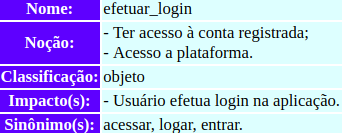
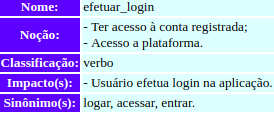
Refatoração e Correção da Página

diff --git a/twitter_docs/modelagem/use_cases_specifications/login.md b/twitter_docs/modelagem/use_cases_specifications/login.md
@@ -2,7 +2,9 @@
 
 ***
 # Caso de Uso - Efetuar Login
-<span style="margin-left: 30%;">![Login Use Case](https://i.imgur.com/48PfupK.png)</span>
+
+<span style="margin-left: 30%;">![Login](../images/UC-Login.png)</span>
+
 
 ## Especificações
 
@@ -15,12 +17,10 @@ UC01 - Efetuar Login
 | **Pré-Condições** | * Possuir cadastro/conta no Twitter </br> * Acesso a Internet <br/> * Aplicativo mobile ou desktop
  |
 | **Pós-Condições** | Acesso a homepage e funcionalidades existentes no sistema |
-| **Fluxo Princtipal** | 1. O ator abre o aplicativo do twitter </br> 2. O sistema fornece a página de login </br> 3.  O ator fornece os campos de username e senha<br/> 4. O ator clica em "Entrar" <br/> 5. O sistema autentica o usuário e seus dados|
-| **Fluxo(s) Alternativos** | 1. O ator abre o aplicativo do twitter </br> 2. O sistema fornece a página de login e sing up </br> 3. O sistema fornece parte de cadastro(sing up) <br/> 4. O ator cadastra seus dados <br/> 5. O sistema busca identificar e confirmar a identidade do futuro usuário<br/>6. O sistema autentica o usuário e seus dados |
-| **Fluxo(s) de exceção** | 1. O ator abre o aplicativo do twitter <br/> 2. O sistema fornece a página de login <br/>3. O ator não se recorda de suas credenciais de acesso<br/>4. O sistema oferece suporte de recuperação de credenciais <br/> 5. O sistema fornece refatoração dos daos<br/> 6. O sistema autentica o usuário e seus dados |
+| **Fluxo Princtipal** |[FP01] Este fluxo é necessário para o usuário utilizar/acessar o sistema<br/>1. O ator abre o aplicativo do twitter </br> 2. O sistema fornece a página de login </br> 3.  O ator fornece os campos de username e senha<br/> 4. O ator clica em "Entrar" <br/> 5. O sistema autentica o usuário e seus dados|
+| **Fluxo(s) Alternativos** | [FA01] Este fluxo relata o primeiro contato do usuário com a plataforma<br/>1. O ator abre o aplicativo do twitter </br> 2. O sistema fornece a página de login e sing up </br> 3. O sistema fornece parte de cadastro(sing up) <br/> 4. O ator cadastra seus dados <br/> 5. O sistema busca identificar e confirmar a identidade do futuro usuário<br/>6. O sistema autentica o usuário e seus dados |
+| **Fluxo(s) de exceção** | [FE01-A] O fluxo a seguir exprime uma adversidade do usuário no sistema<br/> 1. O ator abre o aplicativo do twitter <br/> 2. O sistema fornece a página de login <br/>3. O ator não se recorda de suas credenciais de acesso<br/>4. O sistema oferece suporte de recuperação de credenciais <br/> 5. O sistema fornece refatoração dos daos<br/> 6. O sistema autentica o usuário e seus dados <br/> [FE01-B] O usuário não possui acesso a Internet|
 ||
-
-
 **Autores:** Bruno, Eugênio </br>
 **Versão:** 0.1
 ***
@@ -31,3 +31,4 @@ UC01 - Efetuar Login
 | 27/09/2019 | Bruno Henrique | Adição descrição e atores| 0.1 |
 | 27/09/2019 | Eugênio Sales | Adição de fluxos alternativos e excessão | 0.2 |
 | 27/09/2019 | Erick Giffoni | Melhorias na edição da página | 0.2.1 |
+| 30/09/2019 | Bruno | Refatorando a página | 0.2.2 |
